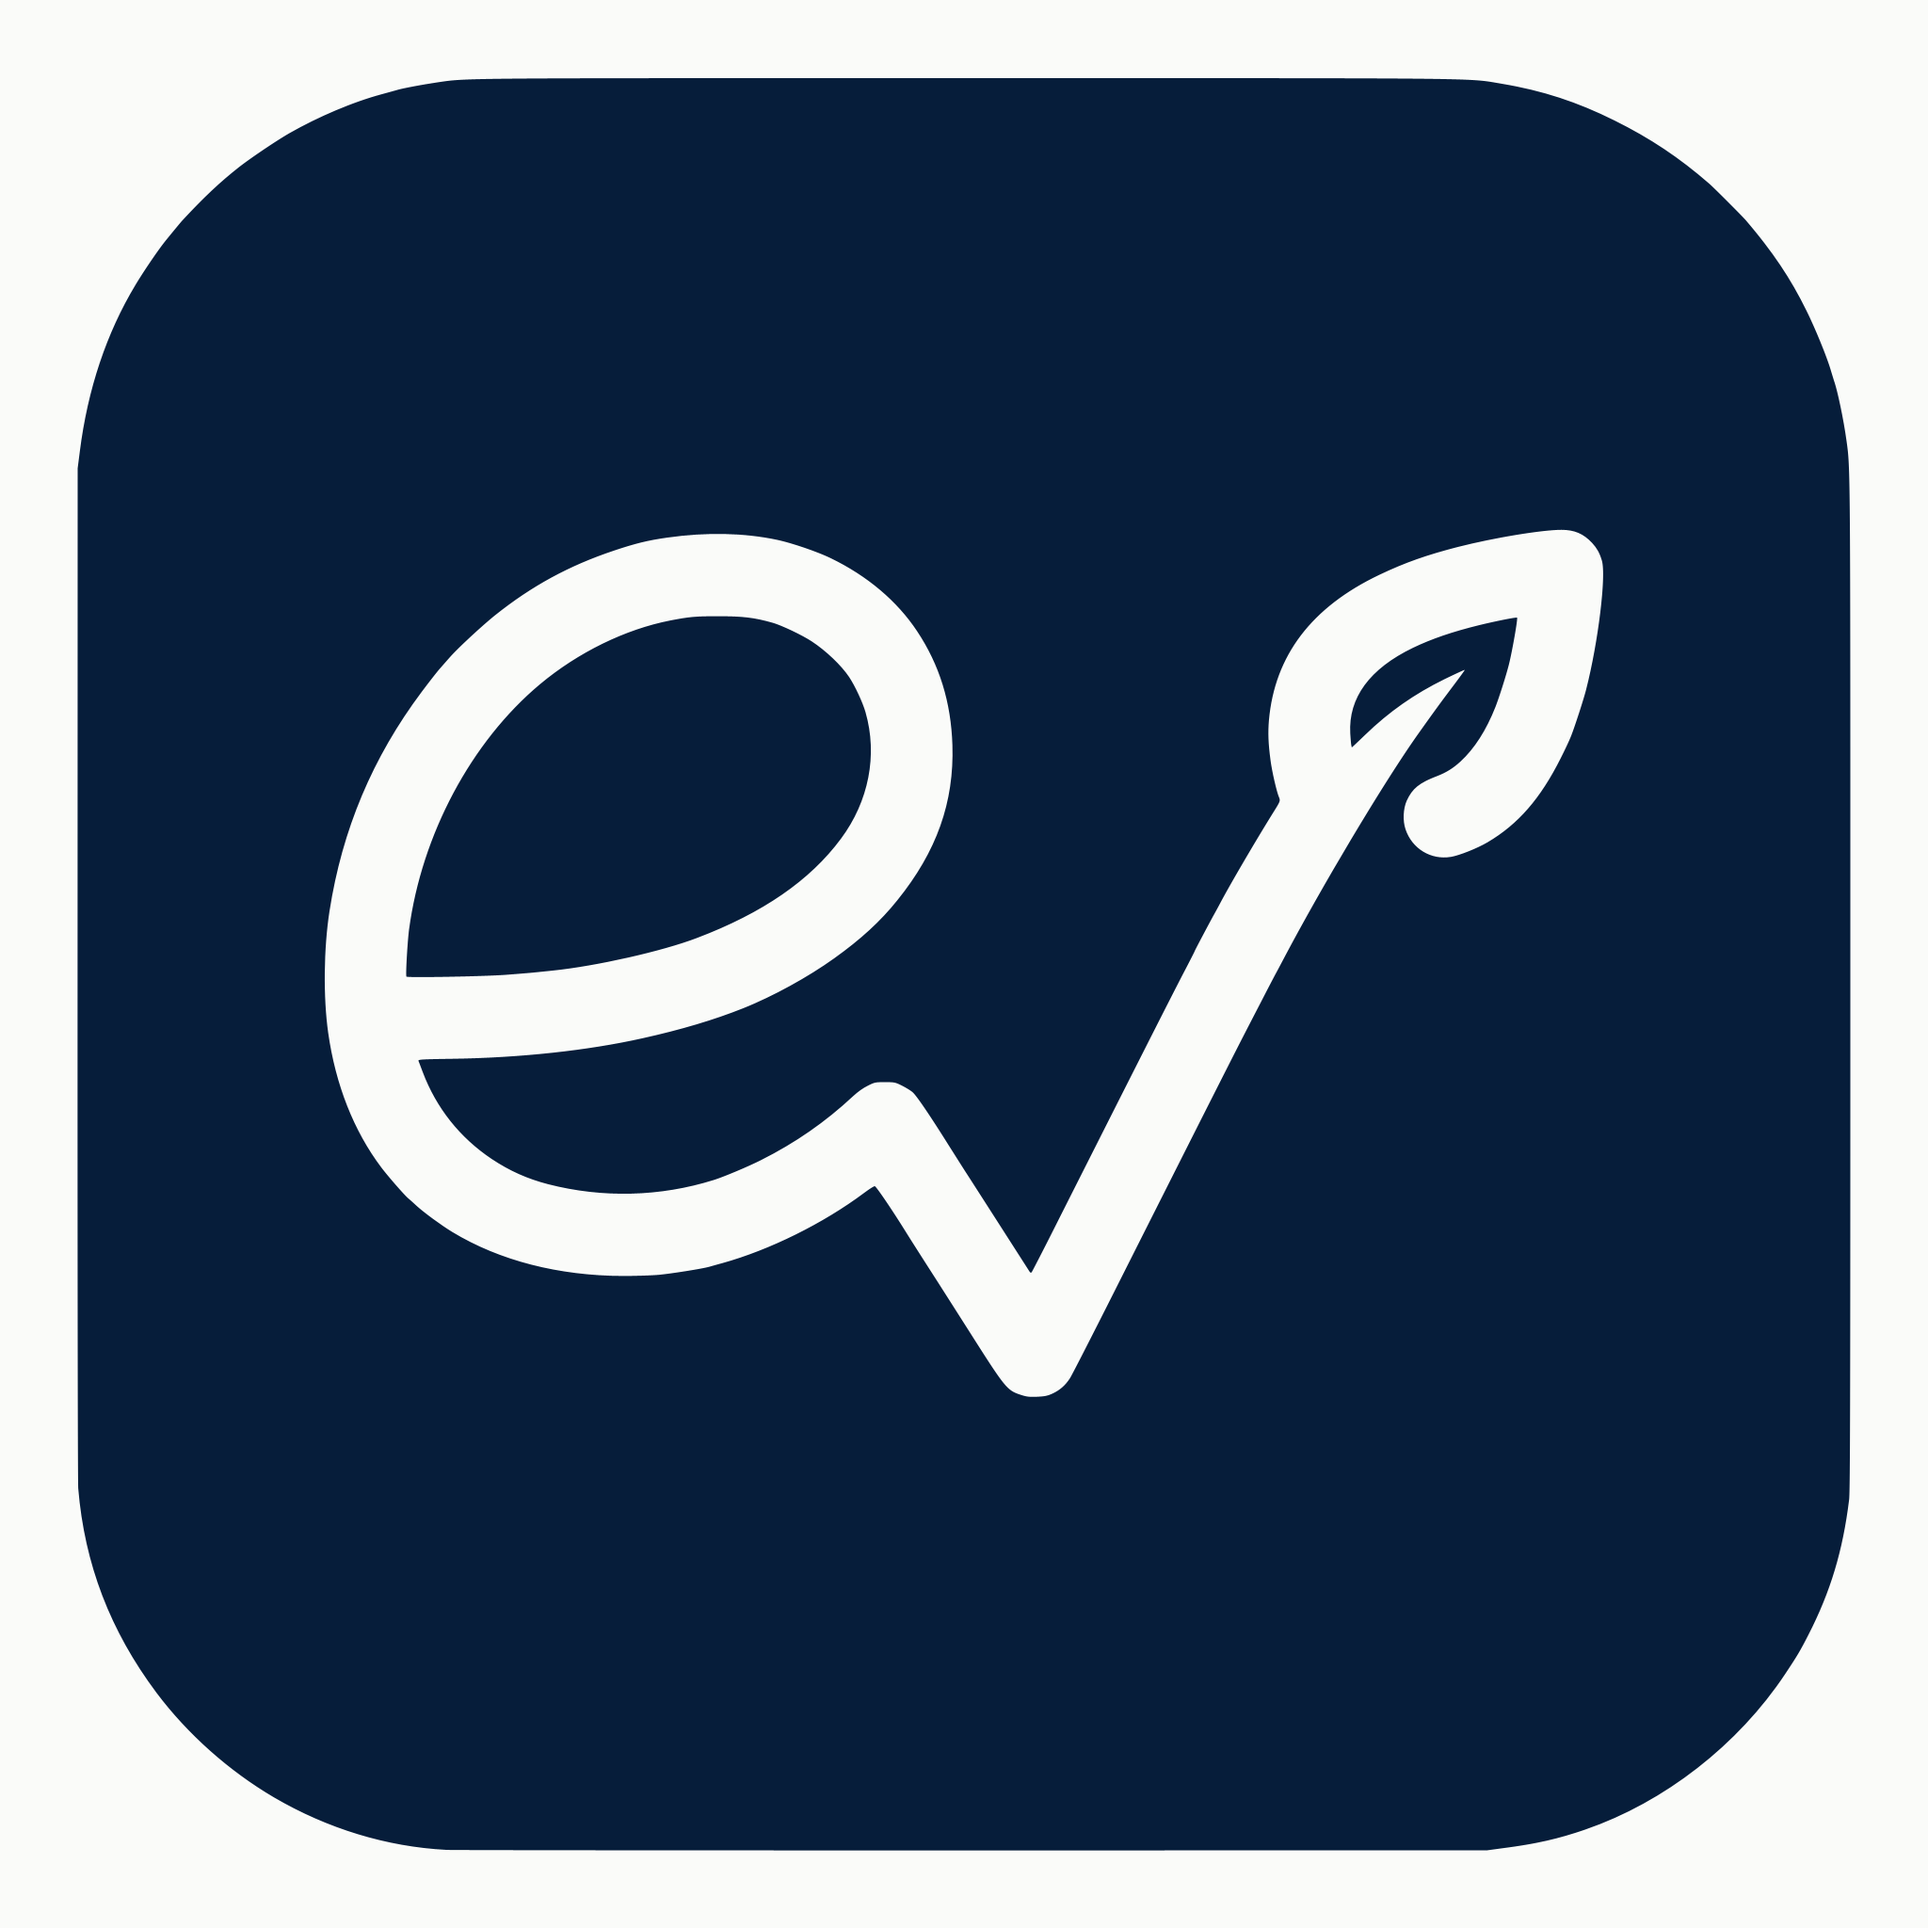
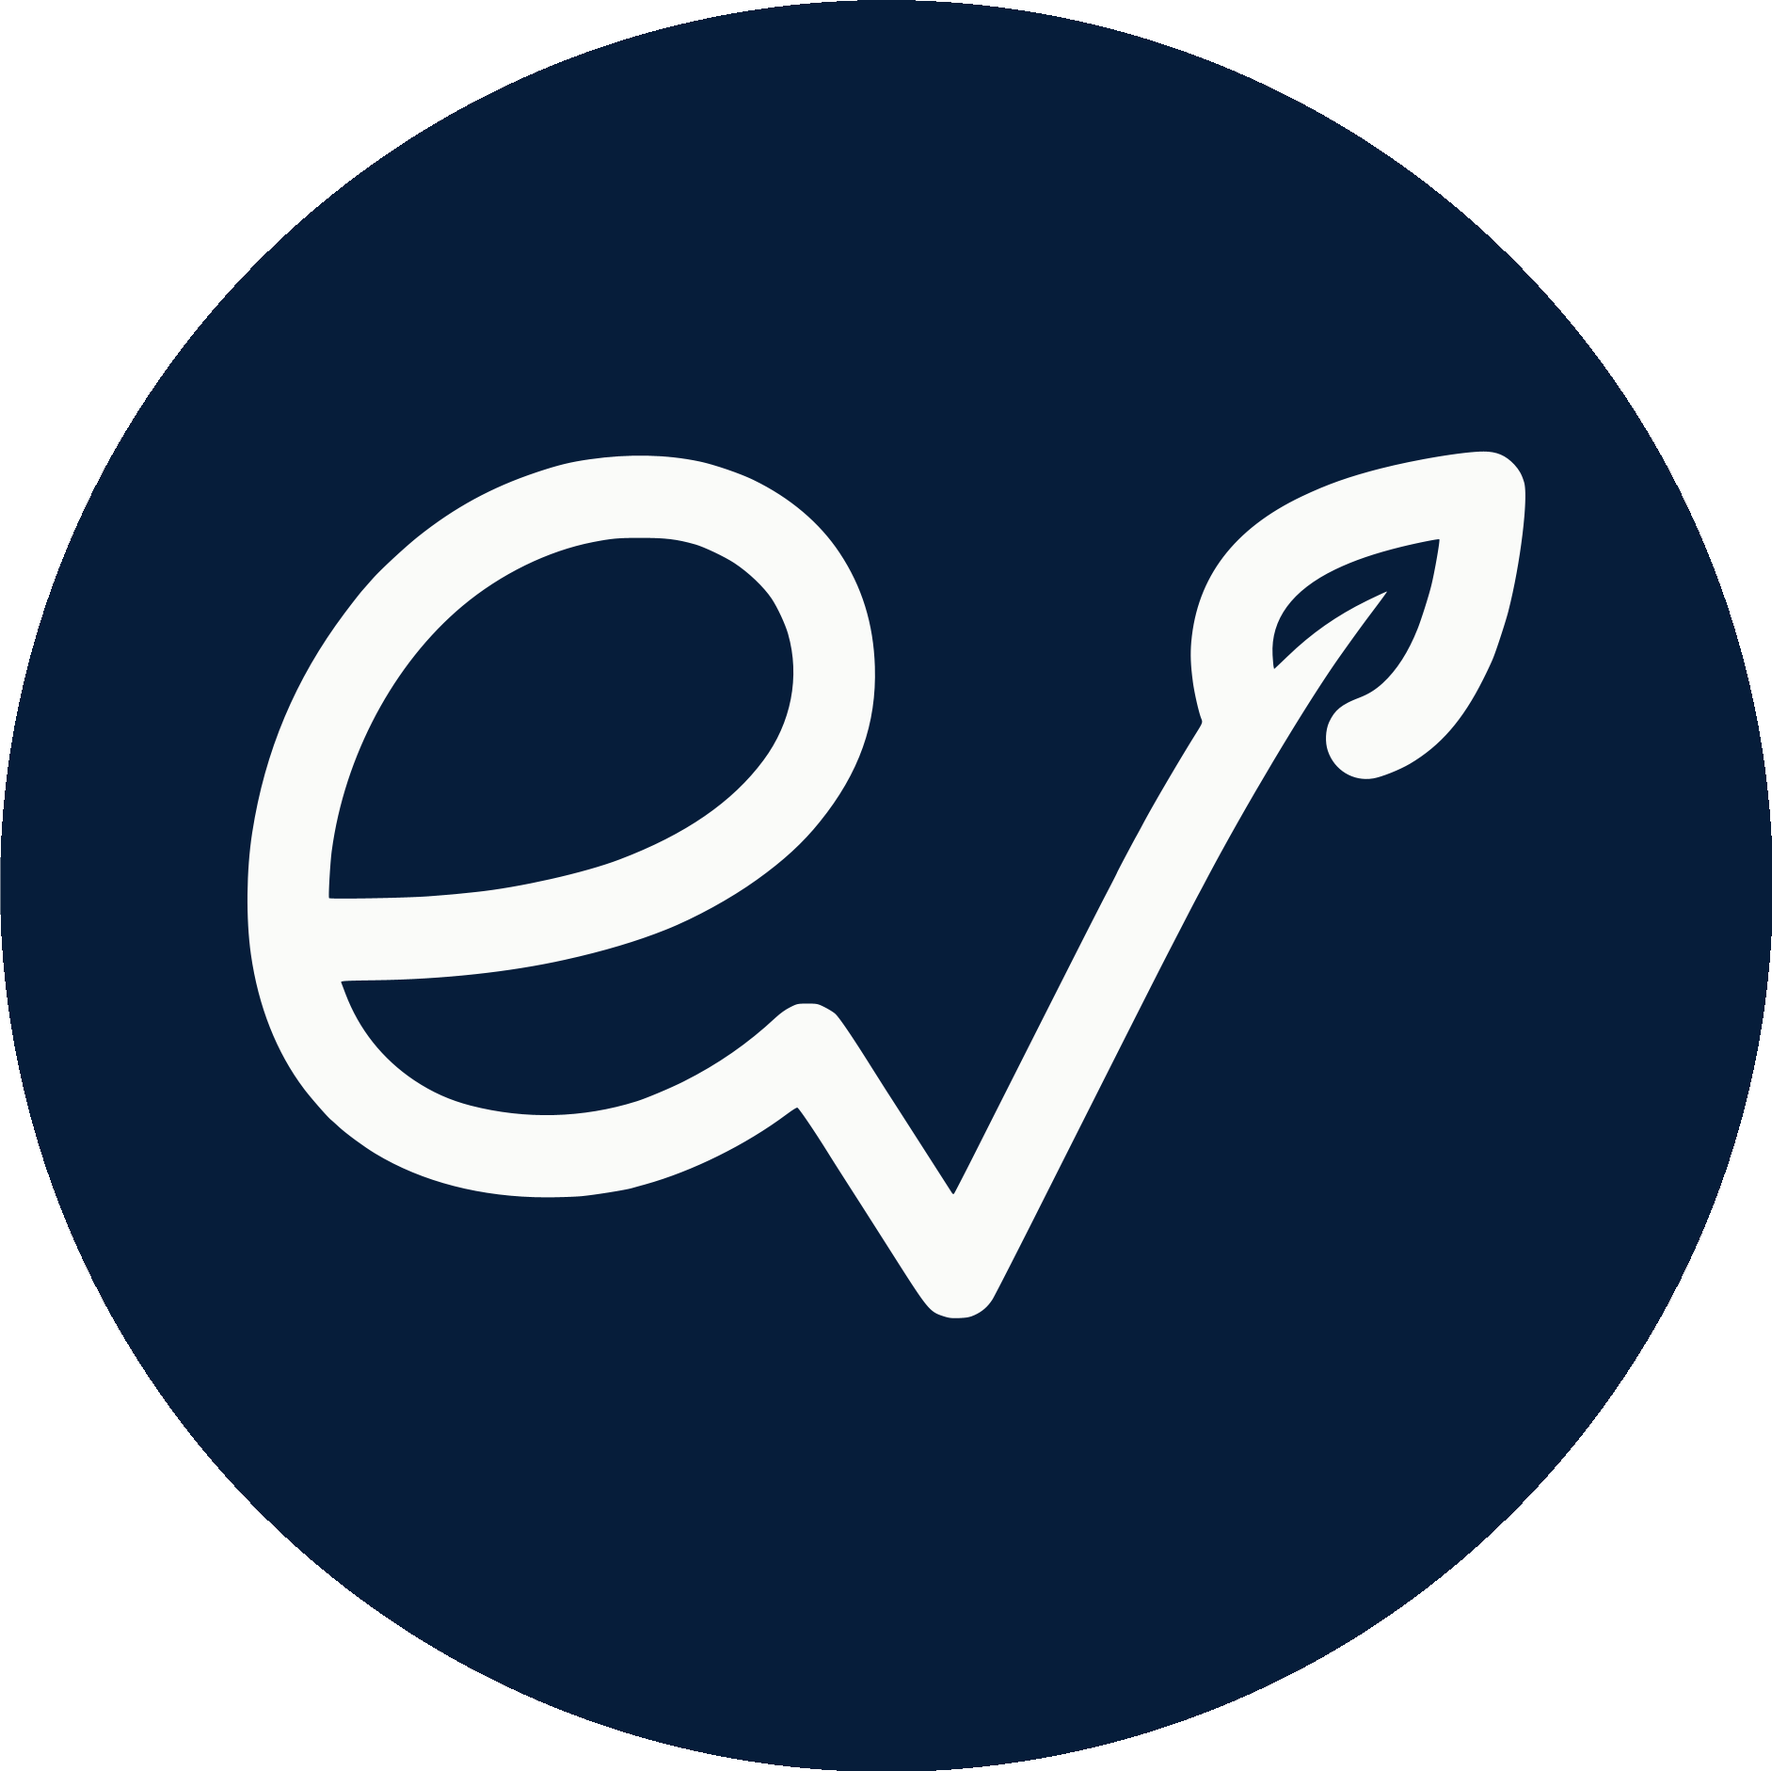
Fix trang load

diff --git a/eatfitai-mobile/src/app/screens/SplashScreen.tsx b/eatfitai-mobile/src/app/screens/SplashScreen.tsx
@@ -1,5 +1,5 @@
 import { useEffect } from 'react';
-import { View, StyleSheet, Dimensions } from 'react-native';
+import { View, StyleSheet, Dimensions, Image } from 'react-native';
 import { LinearGradient } from 'expo-linear-gradient';
 
 import Animated, {
@@ -138,7 +138,11 @@ const SplashScreen = (): React.ReactElement => {
 
         {/* ─── Hero Section ─── */}
         <ParallaxLayer depth={0.8} style={styles.heroSection}>
-          <View />
+          <Animated.Image 
+            source={require('../../assets/adaptive-icon.png')} 
+            style={[styles.logo, { transform: [{ scale: interpolate(progress.value, [0, 1], [0.95, 1], Extrapolation.CLAMP) }] }]} 
+            resizeMode="contain" 
+          />
         </ParallaxLayer>
       </Tilt3DCard>
 
@@ -226,6 +230,12 @@ const styles = StyleSheet.create({
   heroSection: {
     alignItems: 'center',
     justifyContent: 'center',
+  },
+  logo: {
+    width: 160,
+    height: 160,
+    borderRadius: 80, // Khớp với mask hình tròn của Android 12
+    overflow: 'hidden',
   },
 
   /* Footer */

diff --git a/eatfitai-mobile/App.tsx b/eatfitai-mobile/App.tsx
@@ -214,5 +214,6 @@ export default function App(): React.ReactElement | null {
 const styles = StyleSheet.create({
   root: {
     flex: 1,
+    backgroundColor: '#090E1C', // Prevents white flash on Android before SystemUI kicks in
   },
 });
